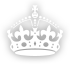
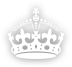
retina sized assets

diff --git a/public/style.css b/public/style.css
@@ -160,9 +160,15 @@ header a:hover {
 }
 #crown {
   background: no-repeat center url(images/crown.png);
-  width: 100%;
-  height: 64px;
+  height: 67px;
+  width: 72px;
   margin: auto;
+  background-size: 100%;
+}
+@media only screen and (-webkit-min-device-pixel-ratio: 2) {
+  #crown {
+    background: no-repeat center url(images/crown@2x.png);
+  }
 }
 header h1 {
   font-size: 45px;
@@ -177,7 +183,6 @@ header p {
   font-style: italic;
 }
 #header-img-toggle {
-  background: red;
   width: 16px;
   height: 16px;
   position: fixed;
@@ -214,6 +219,9 @@ footer.fixed {
   position: fixed !important;
 }
 /* sidebar */
+#headshot {
+  width: 275px;
+}
 #sidebar {
   font-size: 11px;
   margin-top: 20px;

diff --git a/public/style.less b/public/style.less
@@ -181,9 +181,16 @@ header a:hover {
 
 #crown {
     background: no-repeat center url(images/crown.png);
-    width: 100%;
-    height: 64px;
+    height: 67px;
+    width: 72px;
     margin: auto;
+    background-size: 100%;
+}
+
+@media only screen and (-webkit-min-device-pixel-ratio: 2) {
+    #crown {
+        background: no-repeat center url(images/crown@2x.png);
+    }
 }
 
 header h1 {
@@ -201,7 +208,6 @@ header p {
 }
 
 #header-img-toggle {
-    background: red;
     width: 16px;
     height: 16px;
     position: fixed;
@@ -248,6 +254,11 @@ footer.fixed {
 
 
 /* sidebar */
+
+// hack for photo
+#headshot {
+    width: 275px;
+}
 
 #sidebar {
     font-size: 11px;

diff --git a/public/index.html b/public/index.html
@@ -30,7 +30,7 @@
 
         <div id="sidebar">
 
-            <p><img src="images/photo.png" alt="Kenneth Ballenegger" /></p>
+            <p><img id="headshot" src="images/photo.png" alt="Kenneth Ballenegger" /></p>
             <p id="about">
                 My name is Kenneth and I’m a Swiss transplant in San Francisco. By day, I’m the architect behind <a href="https://www.chartboost.com">Chartboost</a>, and in my off hours you will find me either exploring this magnificent city or hacking away on an ever-changing new side project. This is my personal weblog where I muse about the world of design, software and life.
             </p>
